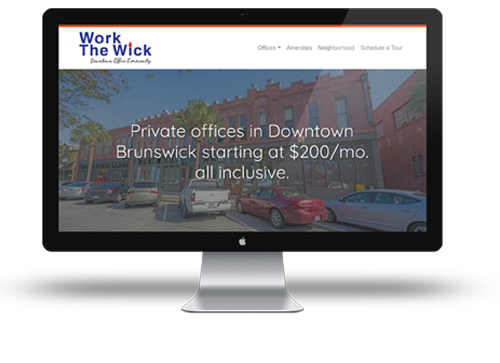
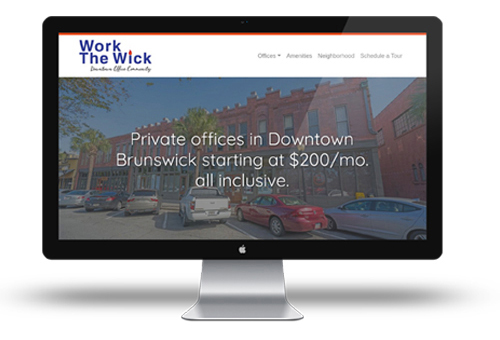
fixed scrolling issues

diff --git a/src/css/custom.css b/src/css/custom.css
@@ -6,14 +6,14 @@ nav {
      /* background-color: rgba(0,0,0,.5); */
  }
 
- .margin10vh {
-     padding-top: 10vh;
+ section {
+     padding-top: 15vh;
+     min-height: 100vh;
+
+     display: flex;
+     align-items: center;
  }
- .margin10vh section {
-    min-height: 100vh;
-    display: flex;
-    align-items: center;
-}
+
 
  .displayNone {
      display: none;
@@ -41,17 +41,11 @@ nav {
 
  
 
- .singlePageBlue {
-    min-height: 100vh;
-    display: flex;
-    align-items: center;
+ .blue {
     background-color: #4494c9;
  }
 
- .singlePageBlack {
-    min-height: 100vh;
-    display: flex;
-    align-items: center;
+ .Black {
     background-color: black;
  }
 
@@ -69,13 +63,7 @@ nav {
      font-size: 1em;
  }
 
-.singlePage {
-    min-height: 100vh;
-    display: flex;
-    /* background-color: #4494c9; */
-    align-items: center;
-    /* color: white; */
-}
+
 
 .black {
     background-color: black;

diff --git a/src/pages/about.js b/src/pages/about.js
@@ -5,13 +5,12 @@ import haydnPhoto from "../images/haydn-photo.jpg"
 
 
 const About = (props) => (
-    <div className="margin10vh">
     <section id={props.sectionName}>
         <Container>
             <h2 className="text-center">About Haydn S. Adams, BFA</h2>
             <Row>
                 <Col lg={4}>
-                    <Image src={haydnPhoto} alt="Photo of Haydn" fluid rounded />
+                    <p><Image src={haydnPhoto} alt="Photo of Haydn" fluid rounded /></p>
                 </Col>
                 <Col lg={8}>
                     <p>Since the mid '90s, Haydn has been building websites. He decided to up his design game and receive a Bachelors of Fine Arts in Computer Arts in New Media from the Academy of Art University in San Francisco</p>
@@ -24,7 +23,6 @@ const About = (props) => (
             </Row>
         </Container>
     </section>
-    </div>
 )
 
 export default About

diff --git a/src/pages/overview.js b/src/pages/overview.js
@@ -12,7 +12,7 @@ import computerAfter from "../images/computer-after.jpg"
 import { Container, Image, Row, Col } from "react-bootstrap";
 
 const AboutPage = (props) => (
-    <section id={props.sectionName} className="singlePage">
+    <section id={props.sectionName}>
         
         <Container>
             <Row>
@@ -20,7 +20,7 @@ const AboutPage = (props) => (
                     <Image src={computerBefore} alt="Computer before" fluid />
                 </Col>
                 <Col md={4}>
-                    <Image src={mainLogo} alt="A Designer who codes full logo" className="mt-1 pl-1 pr-1" fluid />
+                    <Image src={mainLogo} alt="A Designer who codes full logo"  fluid />
                     <h1 className="text-center codeType mt-3 smaller">&lt;Teaching the code <br />
 behind the design /&gt;</h1>
                 </Col>

diff --git a/src/pages/courses.js b/src/pages/courses.js
@@ -6,7 +6,7 @@ import gatsbyJSstarter from "../images/courses/gatsby-js-starter-guide.jpg"
 
 
 const Courses = (props) => (
-    <section id={props.sectionName} className="singlePageBlue">
+    <section id={props.sectionName} className="blue">
         
         <Container className="text-center">
             <h2 >Udemy Courses</h2>
